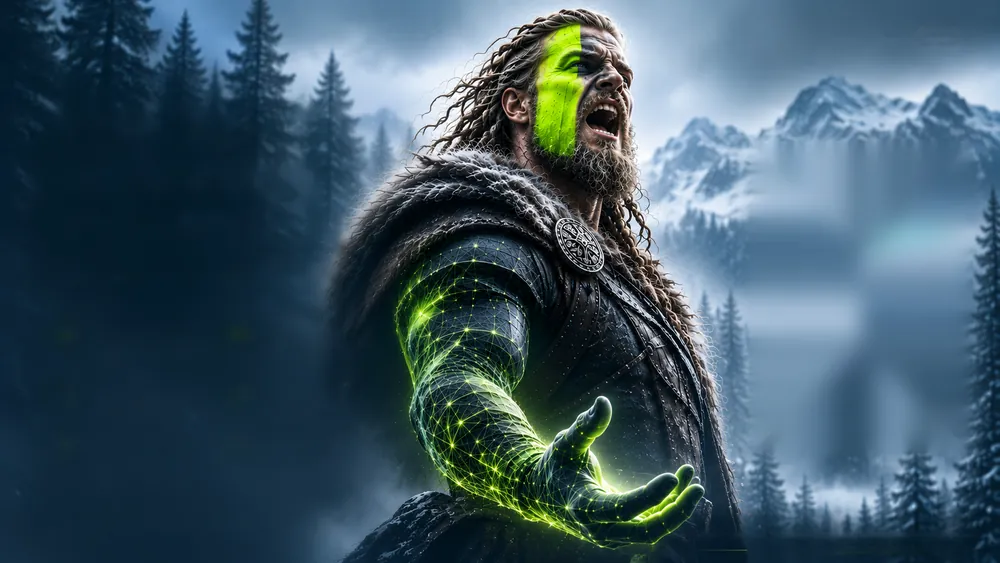
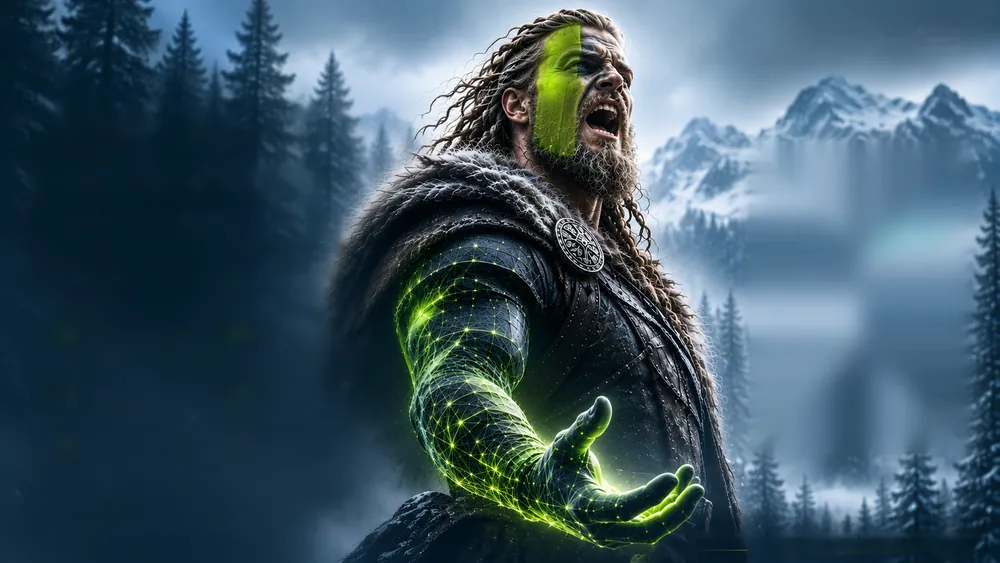
fix(web): face paint follows the skin; paint motion masked to its exact shape
Re-shaded the lime stripe from the surrounding light and the face form, matte pigment with skin texture, brushy edge onto the cheek and paint thinning into the beard. The sheen and glow now use an alpha mask of the paint instead of a rough polygon.

Claude-Session: https://claude.ai/code/session_015o78ktM6V7jTsd6rChiXeL

Changed region(s): [[0.527, 0.0302, 0.589, 0.2718]]

diff --git a/apps/web/src/style.css b/apps/web/src/style.css
@@ -411,10 +411,20 @@ kbd { font: 600 11px var(--font); border: 1px solid var(--night-line-strong); bo
 .plate img { position: absolute; inset: 0; width: 100%; height: 100%; display: block; user-select: none; }
 .arm-glow { position: absolute; inset: 0; mix-blend-mode: screen; background: radial-gradient(14% 18% at 55% 75%, rgba(182, 255, 0, .42), transparent 70%); animation: armPulse 3.2s ease-in-out infinite; }
 .arm-sweep { position: absolute; inset: 0; mix-blend-mode: screen; background: linear-gradient(125deg, transparent 44%, rgba(228, 255, 107, .6) 50%, transparent 56%); background-size: 300% 300%; animation: armSweep 3.8s cubic-bezier(.6, 0, .4, 1) infinite; }
-.paint-sweep { position: absolute; inset: 0; mix-blend-mode: screen; background: linear-gradient(180deg, transparent 40%, rgba(255, 255, 255, .6) 50%, transparent 60%); background-size: 100% 300%; animation: paintSweep 5s ease-in-out infinite 2s; }
+/* Face paint: effects live inside the exact shape of the paint (alpha mask), so they move with the skin. */
+.paint { position: absolute; left: 53.29%; top: 3.93%; width: 5.32%; height: 23.91%;
+  -webkit-mask: var(--pm) center / 100% 100% no-repeat; mask: var(--pm) center / 100% 100% no-repeat; }
+.paint i { position: absolute; inset: 0; }
+/* a wet sheen that travels down the stroke, following the face from brow to cheek */
+.paint-sheen { mix-blend-mode: soft-light; background: linear-gradient(172deg, transparent 0%, transparent 38%, rgba(255, 255, 255, .6) 48%, rgba(255, 255, 255, .3) 52%, transparent 62%, transparent 100%);
+  background-size: 100% 320%; background-position: 0 100%; animation: paintSheen 6.5s cubic-bezier(.45, 0, .2, 1) infinite 2.2s; }
+/* the pigment charges up like the arm, a slow breath of lime light */
+.paint-glow { mix-blend-mode: screen; background: radial-gradient(90% 55% at 40% 45%, rgba(182, 255, 0, .55), rgba(182, 255, 0, .12) 60%, transparent 100%);
+  opacity: 0; animation: paintGlow 6.5s ease-in-out infinite 2.2s; }
+@keyframes paintSheen { 0% { background-position: 0 100%; } 55%, 100% { background-position: 0 0%; } }
+@keyframes paintGlow { 0%, 100% { opacity: 0; } 30% { opacity: .55; } 60% { opacity: .15; } }
 @keyframes armPulse { 0%, 100% { opacity: .55; } 50% { opacity: 1; } }
 @keyframes armSweep { 0% { background-position: 100% 100%; } 100% { background-position: 0% 0%; } }
-@keyframes paintSweep { 0% { background-position: 0 100%; } 60%, 100% { background-position: 0 0%; } }
 .spark { position: absolute; display: block; background: #E4FF6B; border-radius: 1.5px; box-shadow: 0 0 10px 2px rgba(182, 255, 0, .8); }
 .hero-fog { position: absolute; inset: -10%; pointer-events: none; opacity: .5;
   background: radial-gradient(30% 16% at 18% 78%, rgba(220, 232, 244, .3), transparent 70%), radial-gradient(34% 18% at 82% 62%, rgba(220, 232, 244, .22), transparent 70%);
@@ -537,4 +547,4 @@ kbd { font: 600 11px var(--font); border: 1px solid var(--night-line-strong); bo
   .lh-brand .wordmark { font-size: 19px; }
   .lh-main { padding-left: 18px; padding-right: 18px; }
 }
-@media (prefers-reduced-motion: reduce) { .lh-pill i, .hero-fog, .arm-glow, .arm-sweep, .paint-sweep { animation: none; } }
+@media (prefers-reduced-motion: reduce) { .lh-pill i, .hero-fog, .arm-glow, .arm-sweep, .paint i { animation: none; } }

diff --git a/apps/web/src/hero.jsx b/apps/web/src/hero.jsx
@@ -7,7 +7,6 @@ import { BASE } from './paths';
 
 const W = 1672, H = 941;
 const ARM = [[670, 470], [750, 400], [890, 420], [930, 560], [920, 700], [1020, 680], [1160, 780], [1180, 840], [1070, 910], [920, 900], [800, 820], [710, 700], [670, 560]];
-const STRIPE = [[890, 40], [977, 40], [972, 262], [896, 256]];
 const pct = pts => pts.map(([x, y]) => `${(x / W * 100).toFixed(2)}% ${(y / H * 100).toFixed(2)}%`).join(', ');
 
 function seeded(seed) { let s = seed; return () => { s = (s * 16807) % 2147483647; return (s - 1) / 2147483646; }; }
@@ -80,7 +79,9 @@ export function Backdrop() {
           {!reduce && <>
             <div className="arm-glow" style={{ clipPath: `polygon(${pct(ARM)})` }} />
             <div className="arm-sweep" style={{ clipPath: `polygon(${pct(ARM)})` }} />
-            <div className="paint-sweep" style={{ clipPath: `polygon(${pct(STRIPE)})` }} />
+            <div className="paint" style={{ '--pm': `url(${BASE}/hero/paint-mask.png)` }}>
+              <i className="paint-sheen" /><i className="paint-glow" />
+            </div>
             {sparks.map(p => (
               <motion.i key={p.k} className="spark" style={{ left: `${p.x}%`, top: `${p.y}%`, width: p.s, height: p.s }}
                 initial={{ opacity: 0 }} animate={{ opacity: [0, 1, .9, 0], x: [0, 0, p.dx * .4, p.dx], y: [0, 0, p.dy * .4, p.dy], scale: [.4, 1.2, 1, .6] }}
